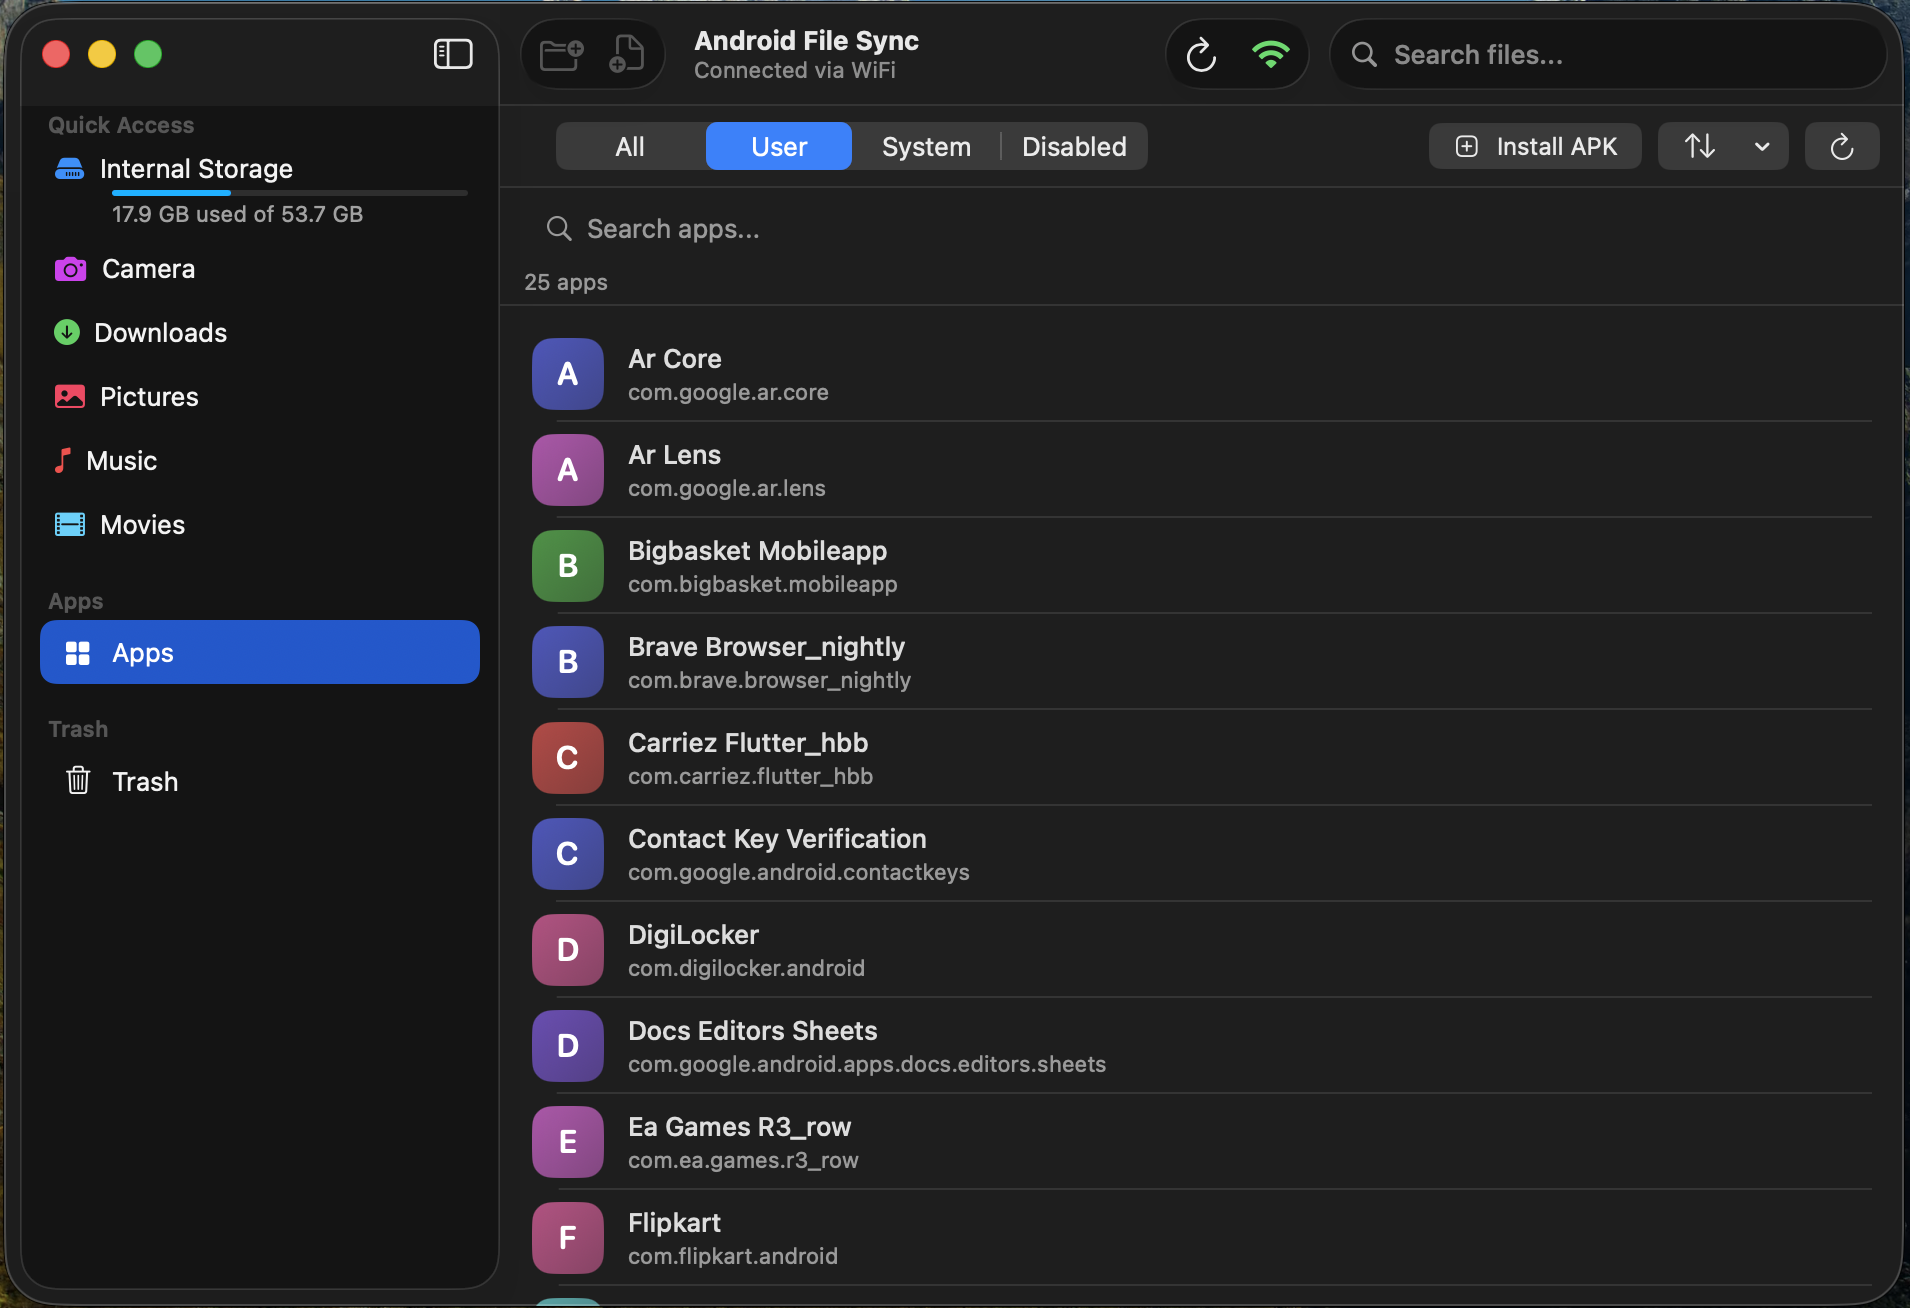
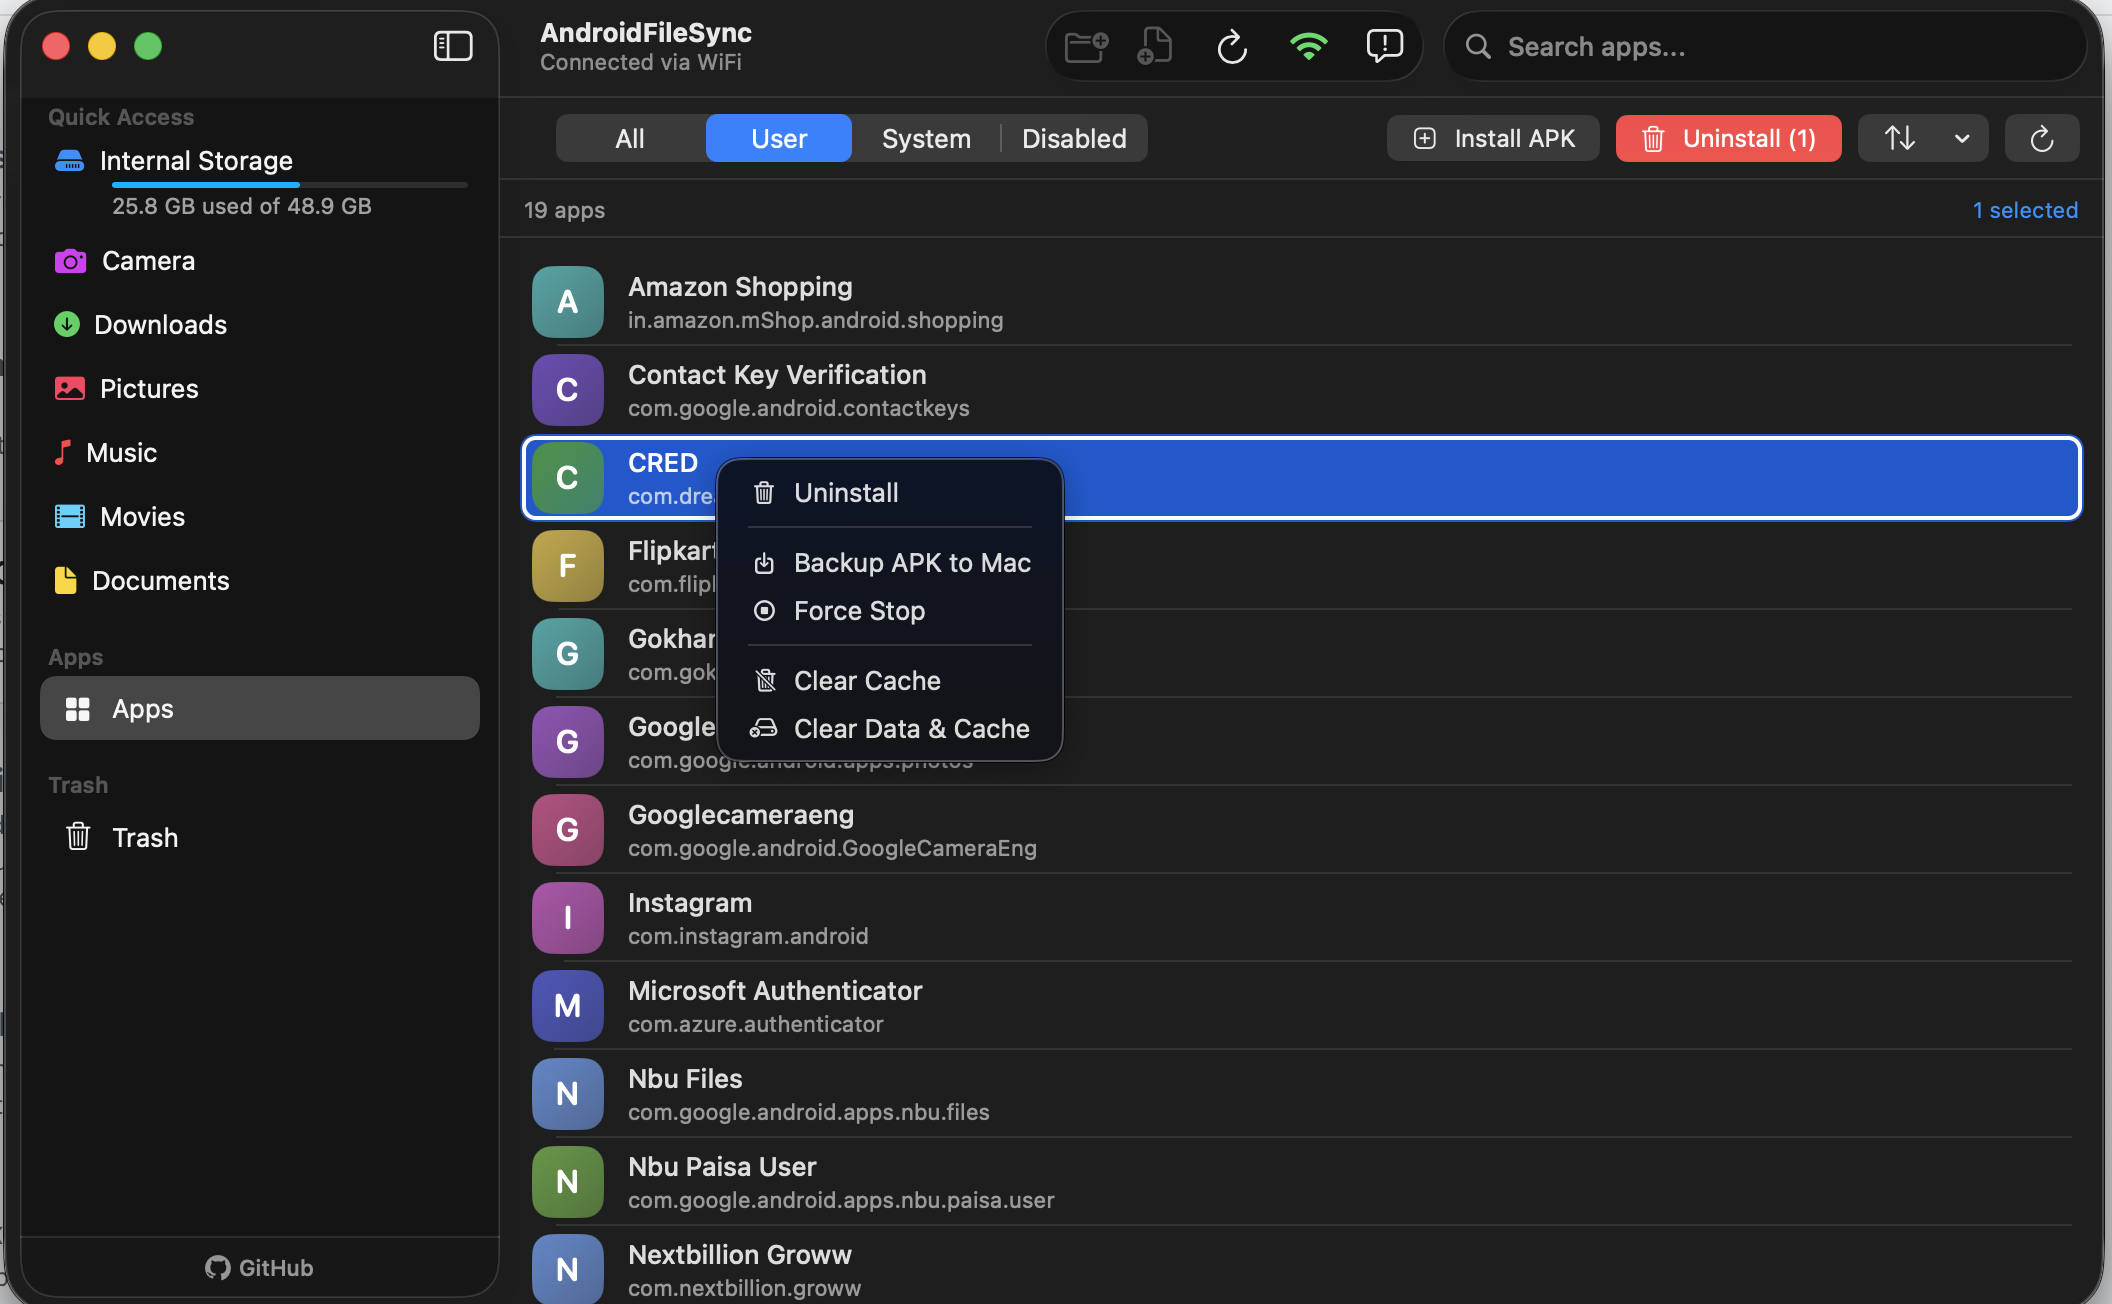
docs: Docs update

Changed region(s): [[0.0, 0.0, 1.0, 1.0], [0.0, 0.6442, 0.0309, 0.7669]]

diff --git a/docs/index.html b/docs/index.html
@@ -588,9 +588,9 @@
   <h1>Manage Your Android <span class="hl">Like Finder</span></h1>
   <p class="hero-subtitle">The best free macOS app to browse, transfer, and manage files on your Android device. Connect over USB or WiFi — fast, private, and open source.</p>
   <div class="hero-stats">
-    <div class="hero-stat"><div class="hero-stat-value" id="stars-count">82</div><div class="hero-stat-label">GitHub Stars</div></div>
+    <div class="hero-stat"><div class="hero-stat-value" id="stars-count">—</div><div class="hero-stat-label">GitHub Stars</div></div>
     <div class="hero-stat-divider"></div>
-    <div class="hero-stat"><div class="hero-stat-value" id="dl-count">278</div><div class="hero-stat-label">Downloads</div></div>
+    <div class="hero-stat"><div class="hero-stat-value" id="dl-count">—</div><div class="hero-stat-label">Downloads</div></div>
     <div class="hero-stat-divider"></div>
     <div class="hero-stat"><div class="hero-stat-value">macOS 13+</div><div class="hero-stat-label">Native Support</div></div>
   </div>
@@ -853,7 +853,7 @@
   </div>
   <div style="text-align:center; margin-top:40px;">
     <p style="color:var(--muted); font-size:14px; margin-bottom:16px;">Install in seconds with Homebrew:</p>
-    <code style="background:var(--bg2); border:1px solid var(--border); border-radius:var(--r-sm); padding:12px 24px; font-size:14px; color:var(--green); display:inline-block;">brew tap santosh7017/androidfilesync && brew install --cask androidfilesync</code>
+    <code style="background:var(--bg2); border:1px solid var(--border); border-radius:var(--r-sm); padding:12px 24px; font-size:14px; color:var(--green); display:inline-block;">brew tap santosh7017/androidfilesync && brew trust santosh7017/androidfilesync && brew install --cask androidfilesync</code>
   </div>
 </section>
 

diff --git a/README.md b/README.md
@@ -44,7 +44,13 @@ That's it. The app comes with everything else built in.
 The easiest way to install AndroidFileSync is using [Homebrew](https://brew.sh/):
 
 ```bash
+# 1. Tap the repository
 brew tap santosh7017/androidfilesync
+
+# 2. Trust the tap (Required for Homebrew 6.0+)
+brew trust santosh7017/androidfilesync
+
+# 3. Install the app cask
 brew install --cask androidfilesync
 ```
 
